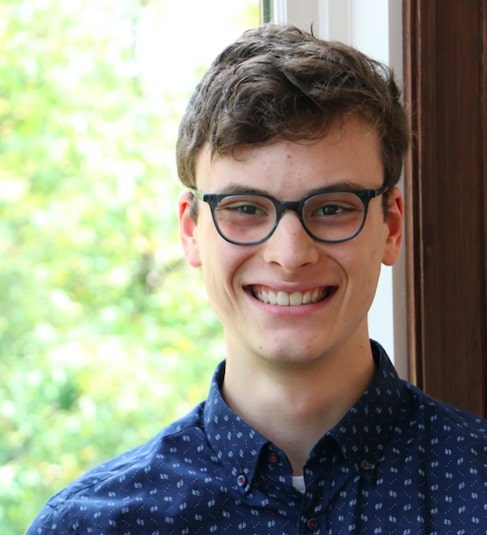
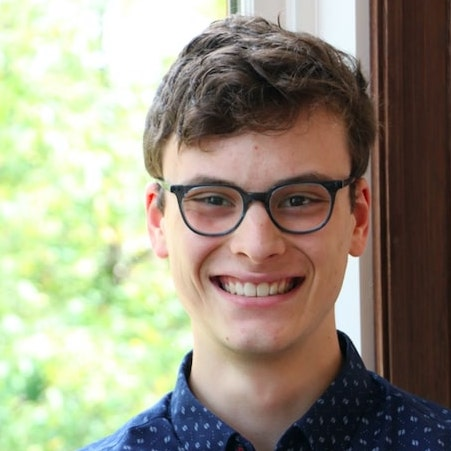
updated profile pic

diff --git a/content/about/sidebar/index.md b/content/about/sidebar/index.md
@@ -2,7 +2,7 @@
 ## Configure sidebar content in narrow column
 author: "Naseem Dillman-Hasso"
 role: "PhD Student"
-avatar_shape: circle # circle, square, rounded, leave blank to exclude
+avatar_shape: rounded # circle, square, rounded, leave blank to exclude
 show_social_links: true # specify social accounts in site config
 audio_link_label: "" # leave blank to exclude
 link_list_label: "" # bookmarks, elsewhere, etc.
